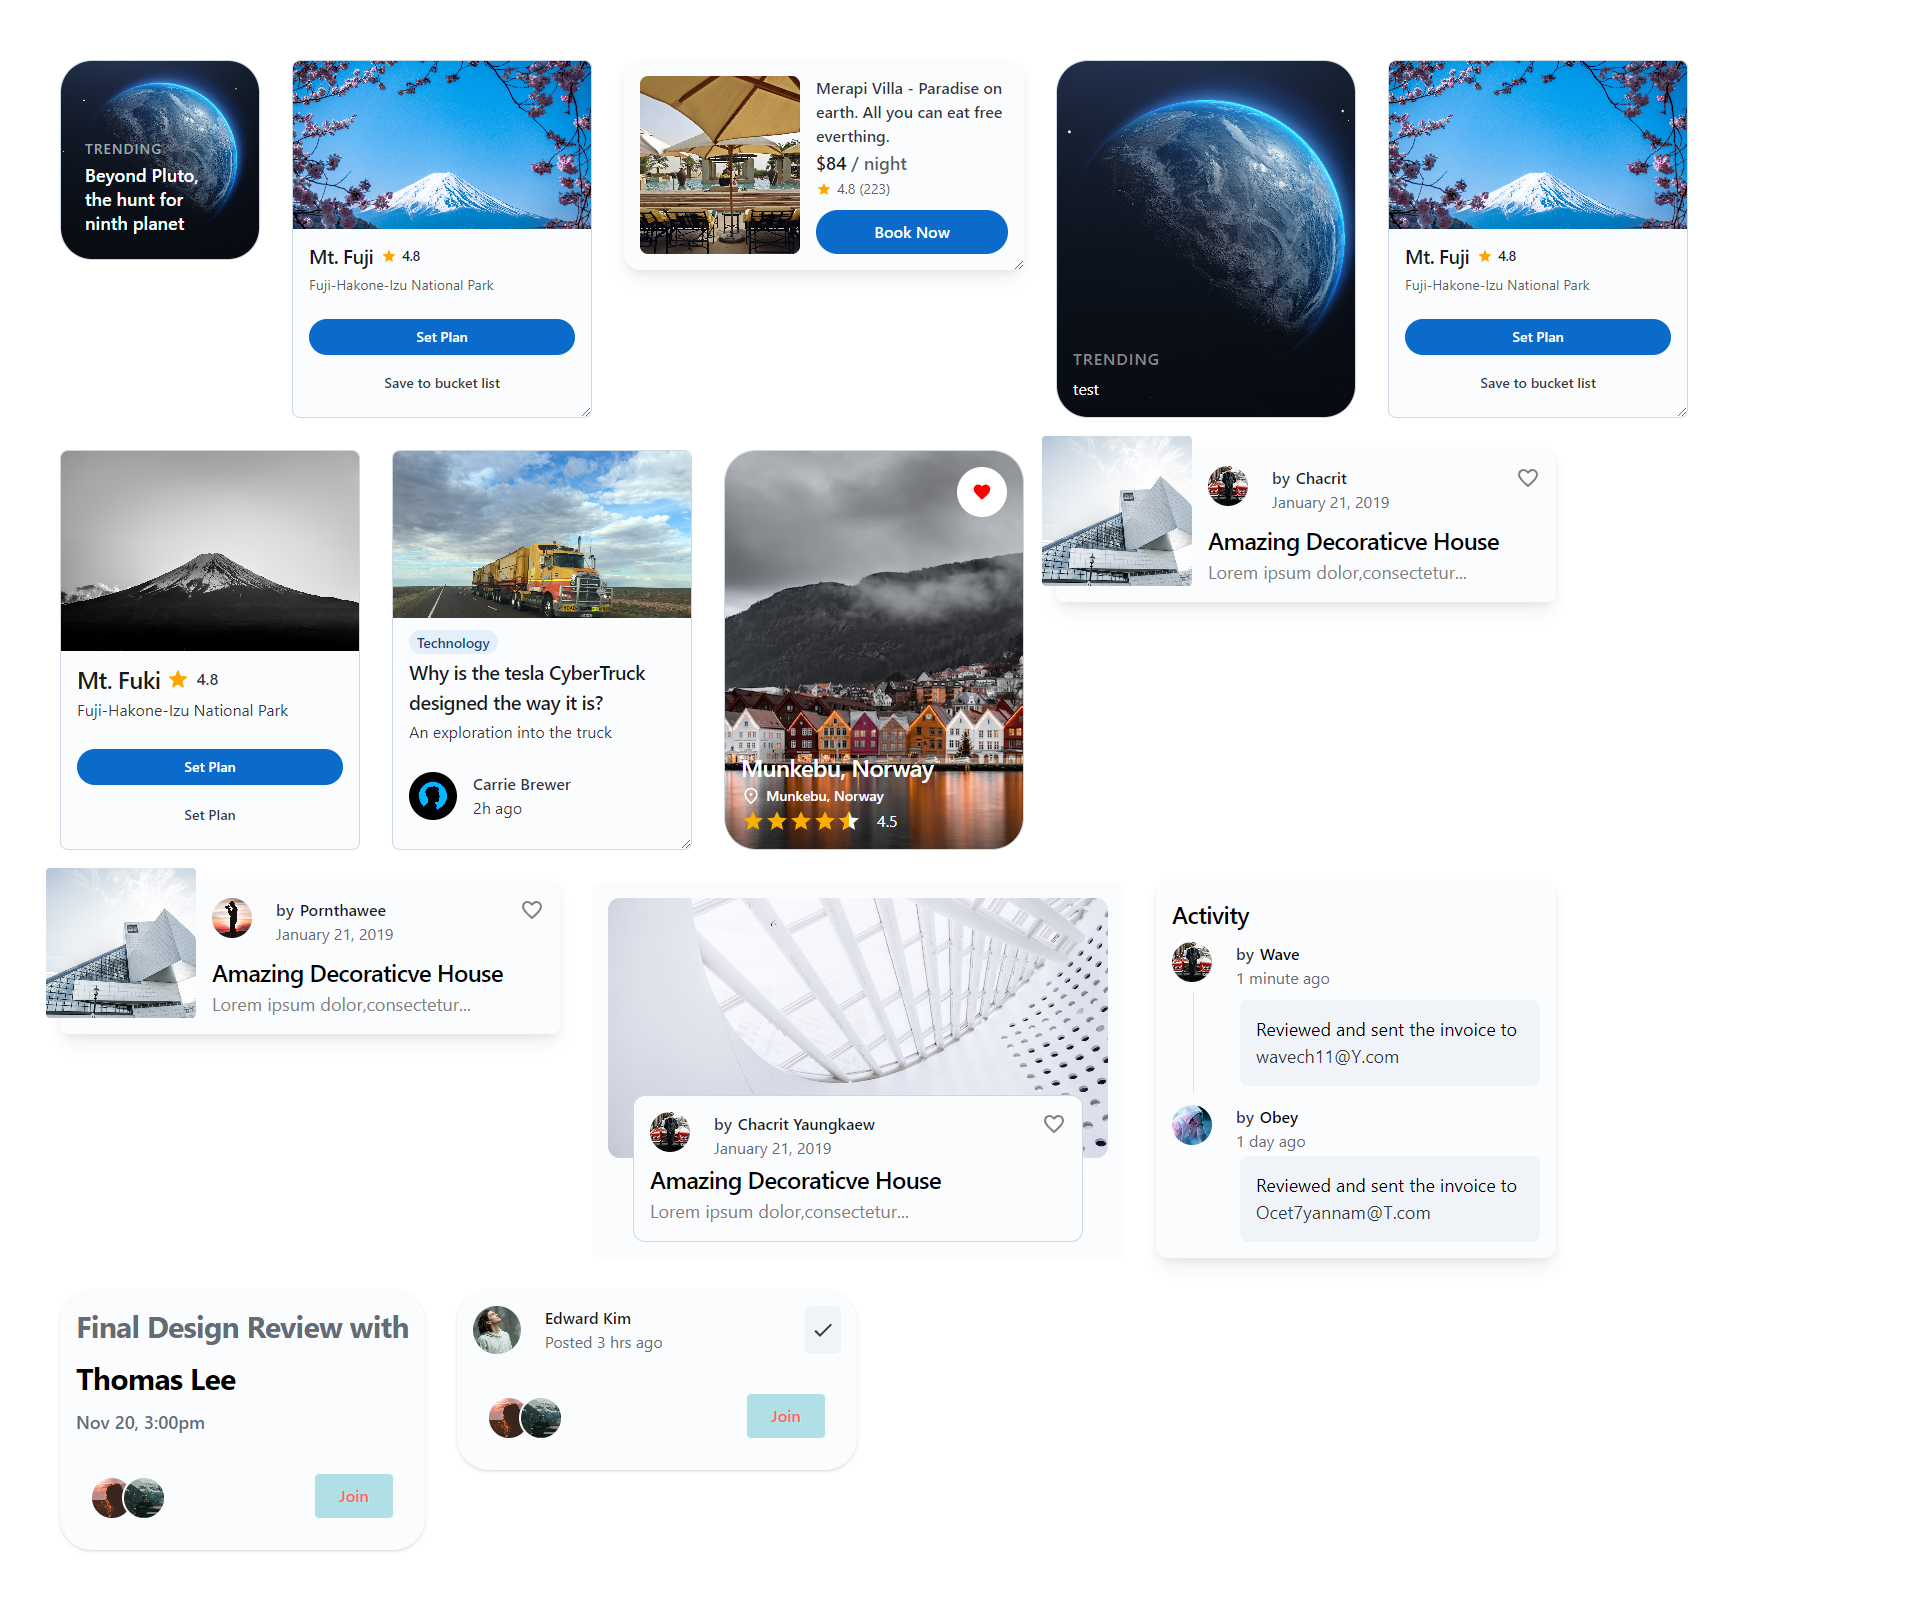
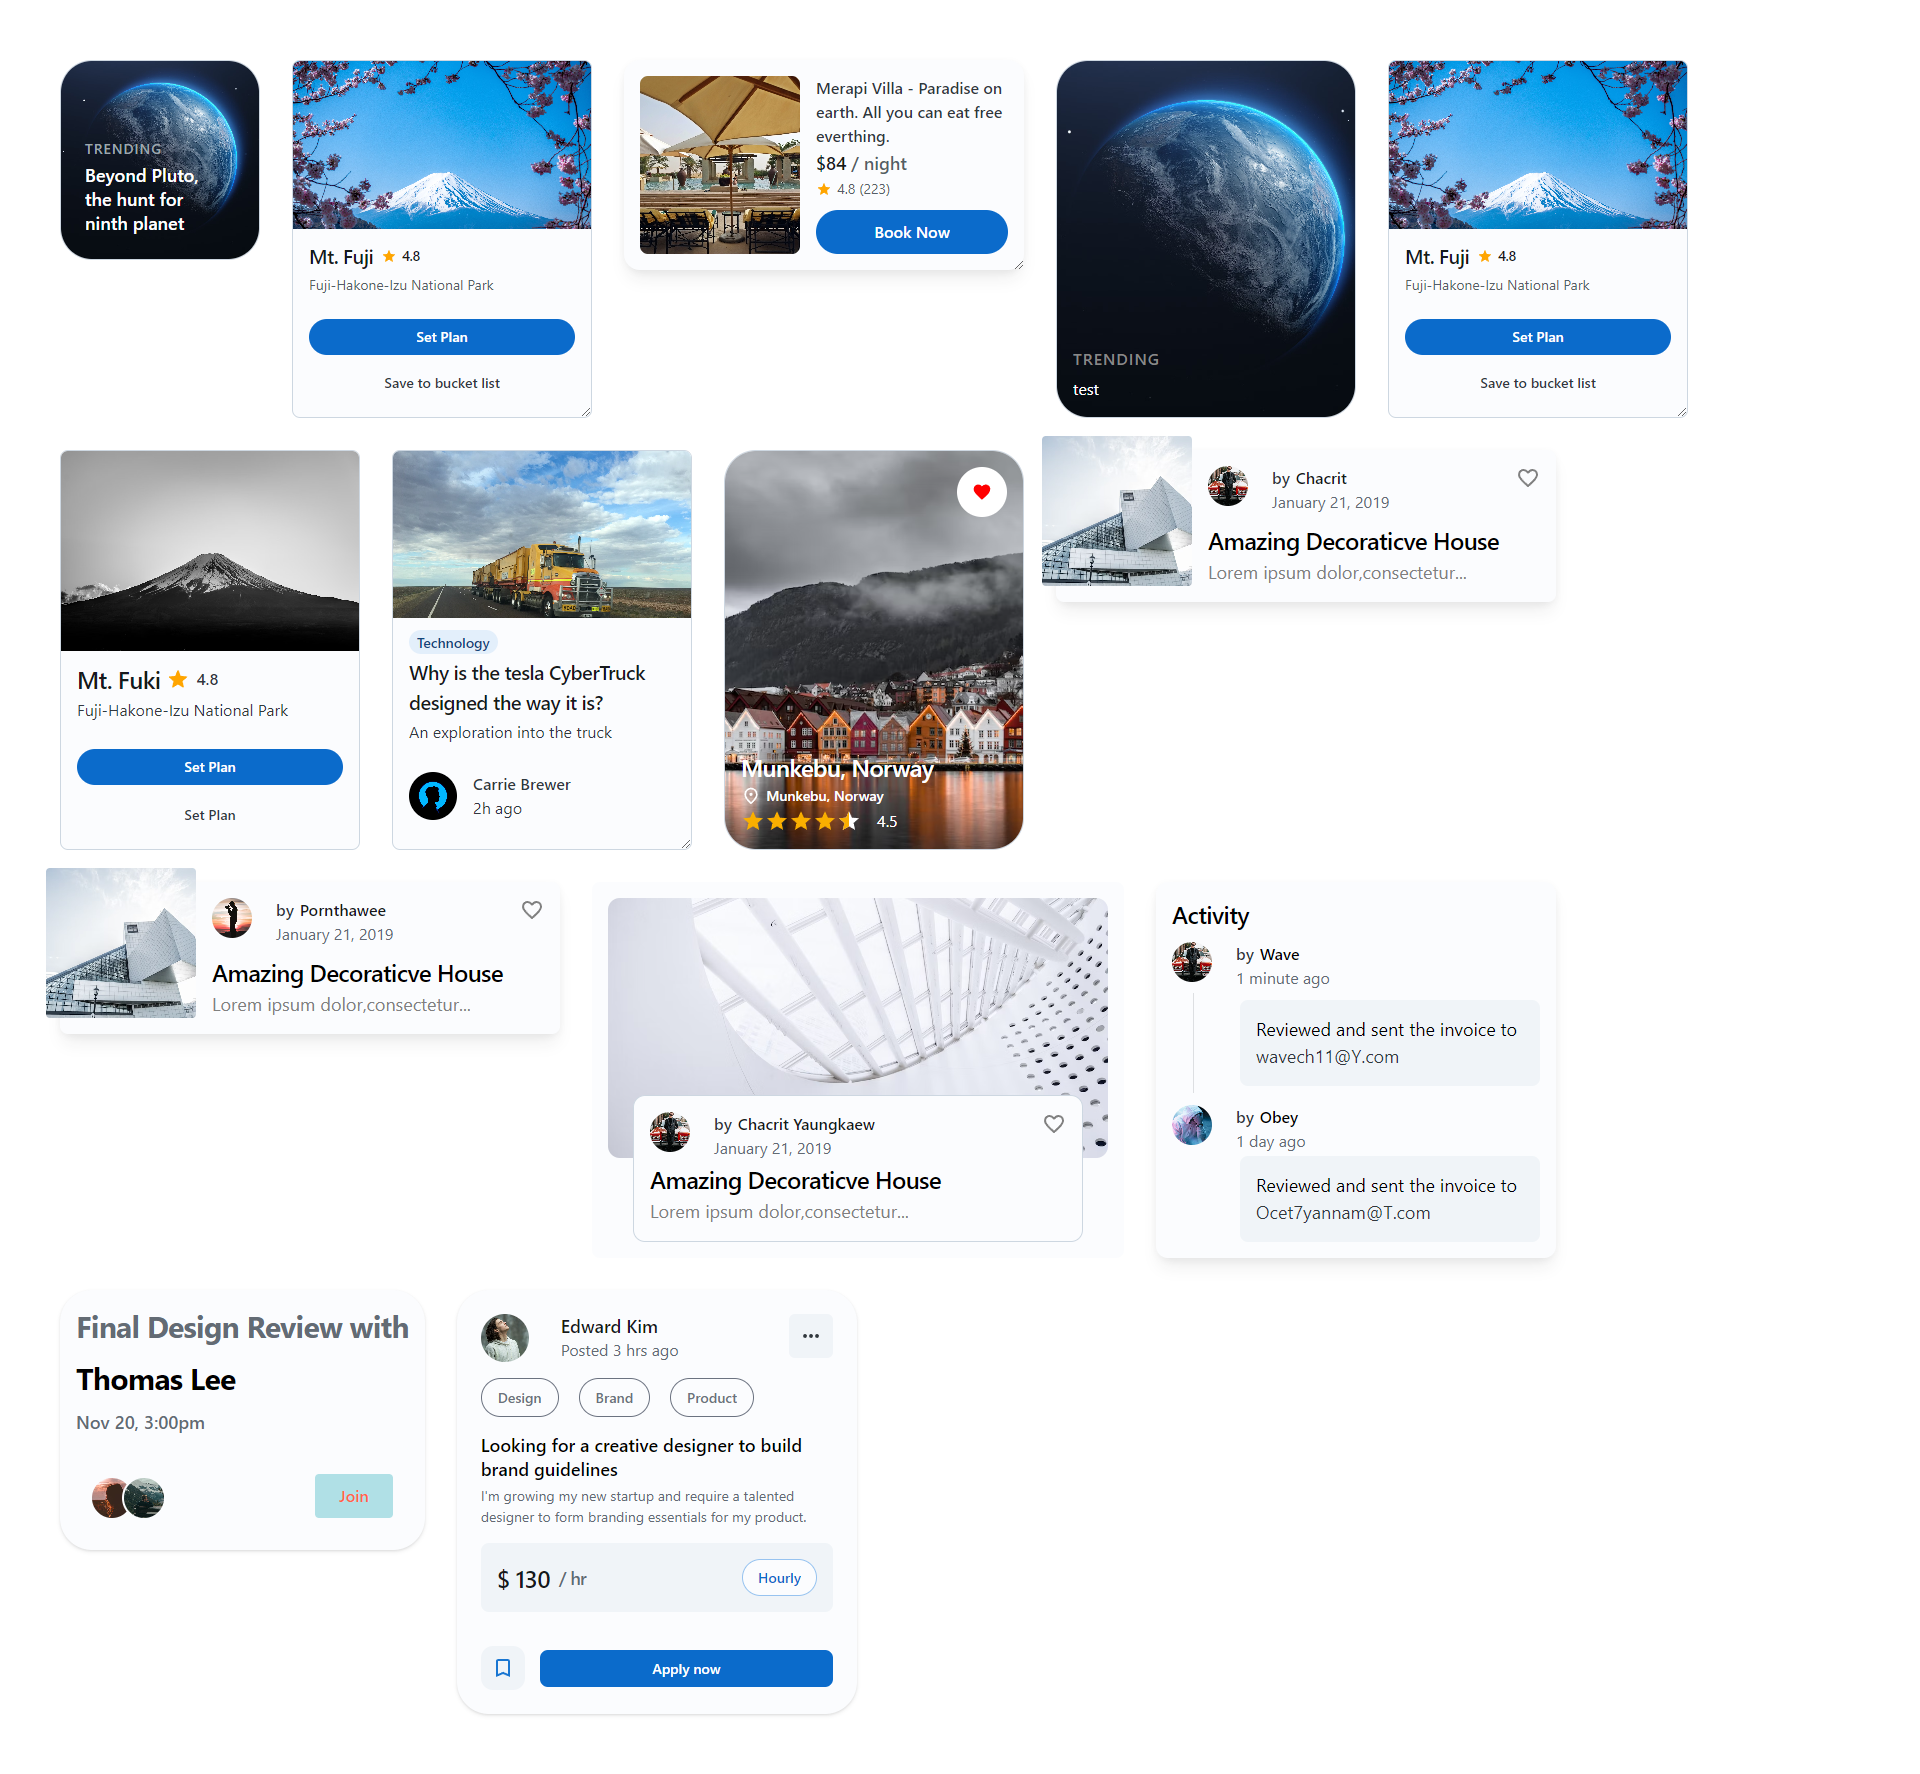
:bento: Update image

diff --git a/src/App.tsx b/src/App.tsx
@@ -17,18 +17,18 @@ function App() {
 
   return (
     <Box sx={{ display: "flex", flexWrap: "wrap", gap: 4, margin: '60px' }}>
-      {/* <CardPluto />
+      <CardPluto />
       <CardPlanTrip />
       <CardBooking />
       <CardPluto2 />
       <CardPlanTrip />
       <CardPlanTrip2 />
       <CardBlog />
-      <CardTravelNorway /> */}
+      <CardTravelNorway />
       <CardListProperty name={"Chacrit"} profile={"https://images.unsplash.com/photo-1520975661595-6453be3f7070?auto=format&fit=crop&q=80&w=687&ixlib=rb-4.0.3&ixid=M3wxMjA3fDB8MHxwaG90by1wYWdlfHx8fGVufDB8fHx8fA%3D%3D"}/> 
       <CardListProperty name={"Pornthawee"} profile={"https://images.unsplash.com/photo-1497316730643-415fac54a2af?auto=format&fit=crop&q=80&w=1064&ixlib=rb-4.0.3&ixid=M3wxMjA3fDB8MHxwaG90by1wYWdlfHx8fGVufDB8fHx8fA%3D%3D"}/>
-      {/* <CardPropertyLatest/>
-      <CardListActivity/> */}
+      <CardPropertyLatest/>
+      <CardListActivity/>
       <CardTeamReview/>
       <CardPostHiring/>
     </Box>
